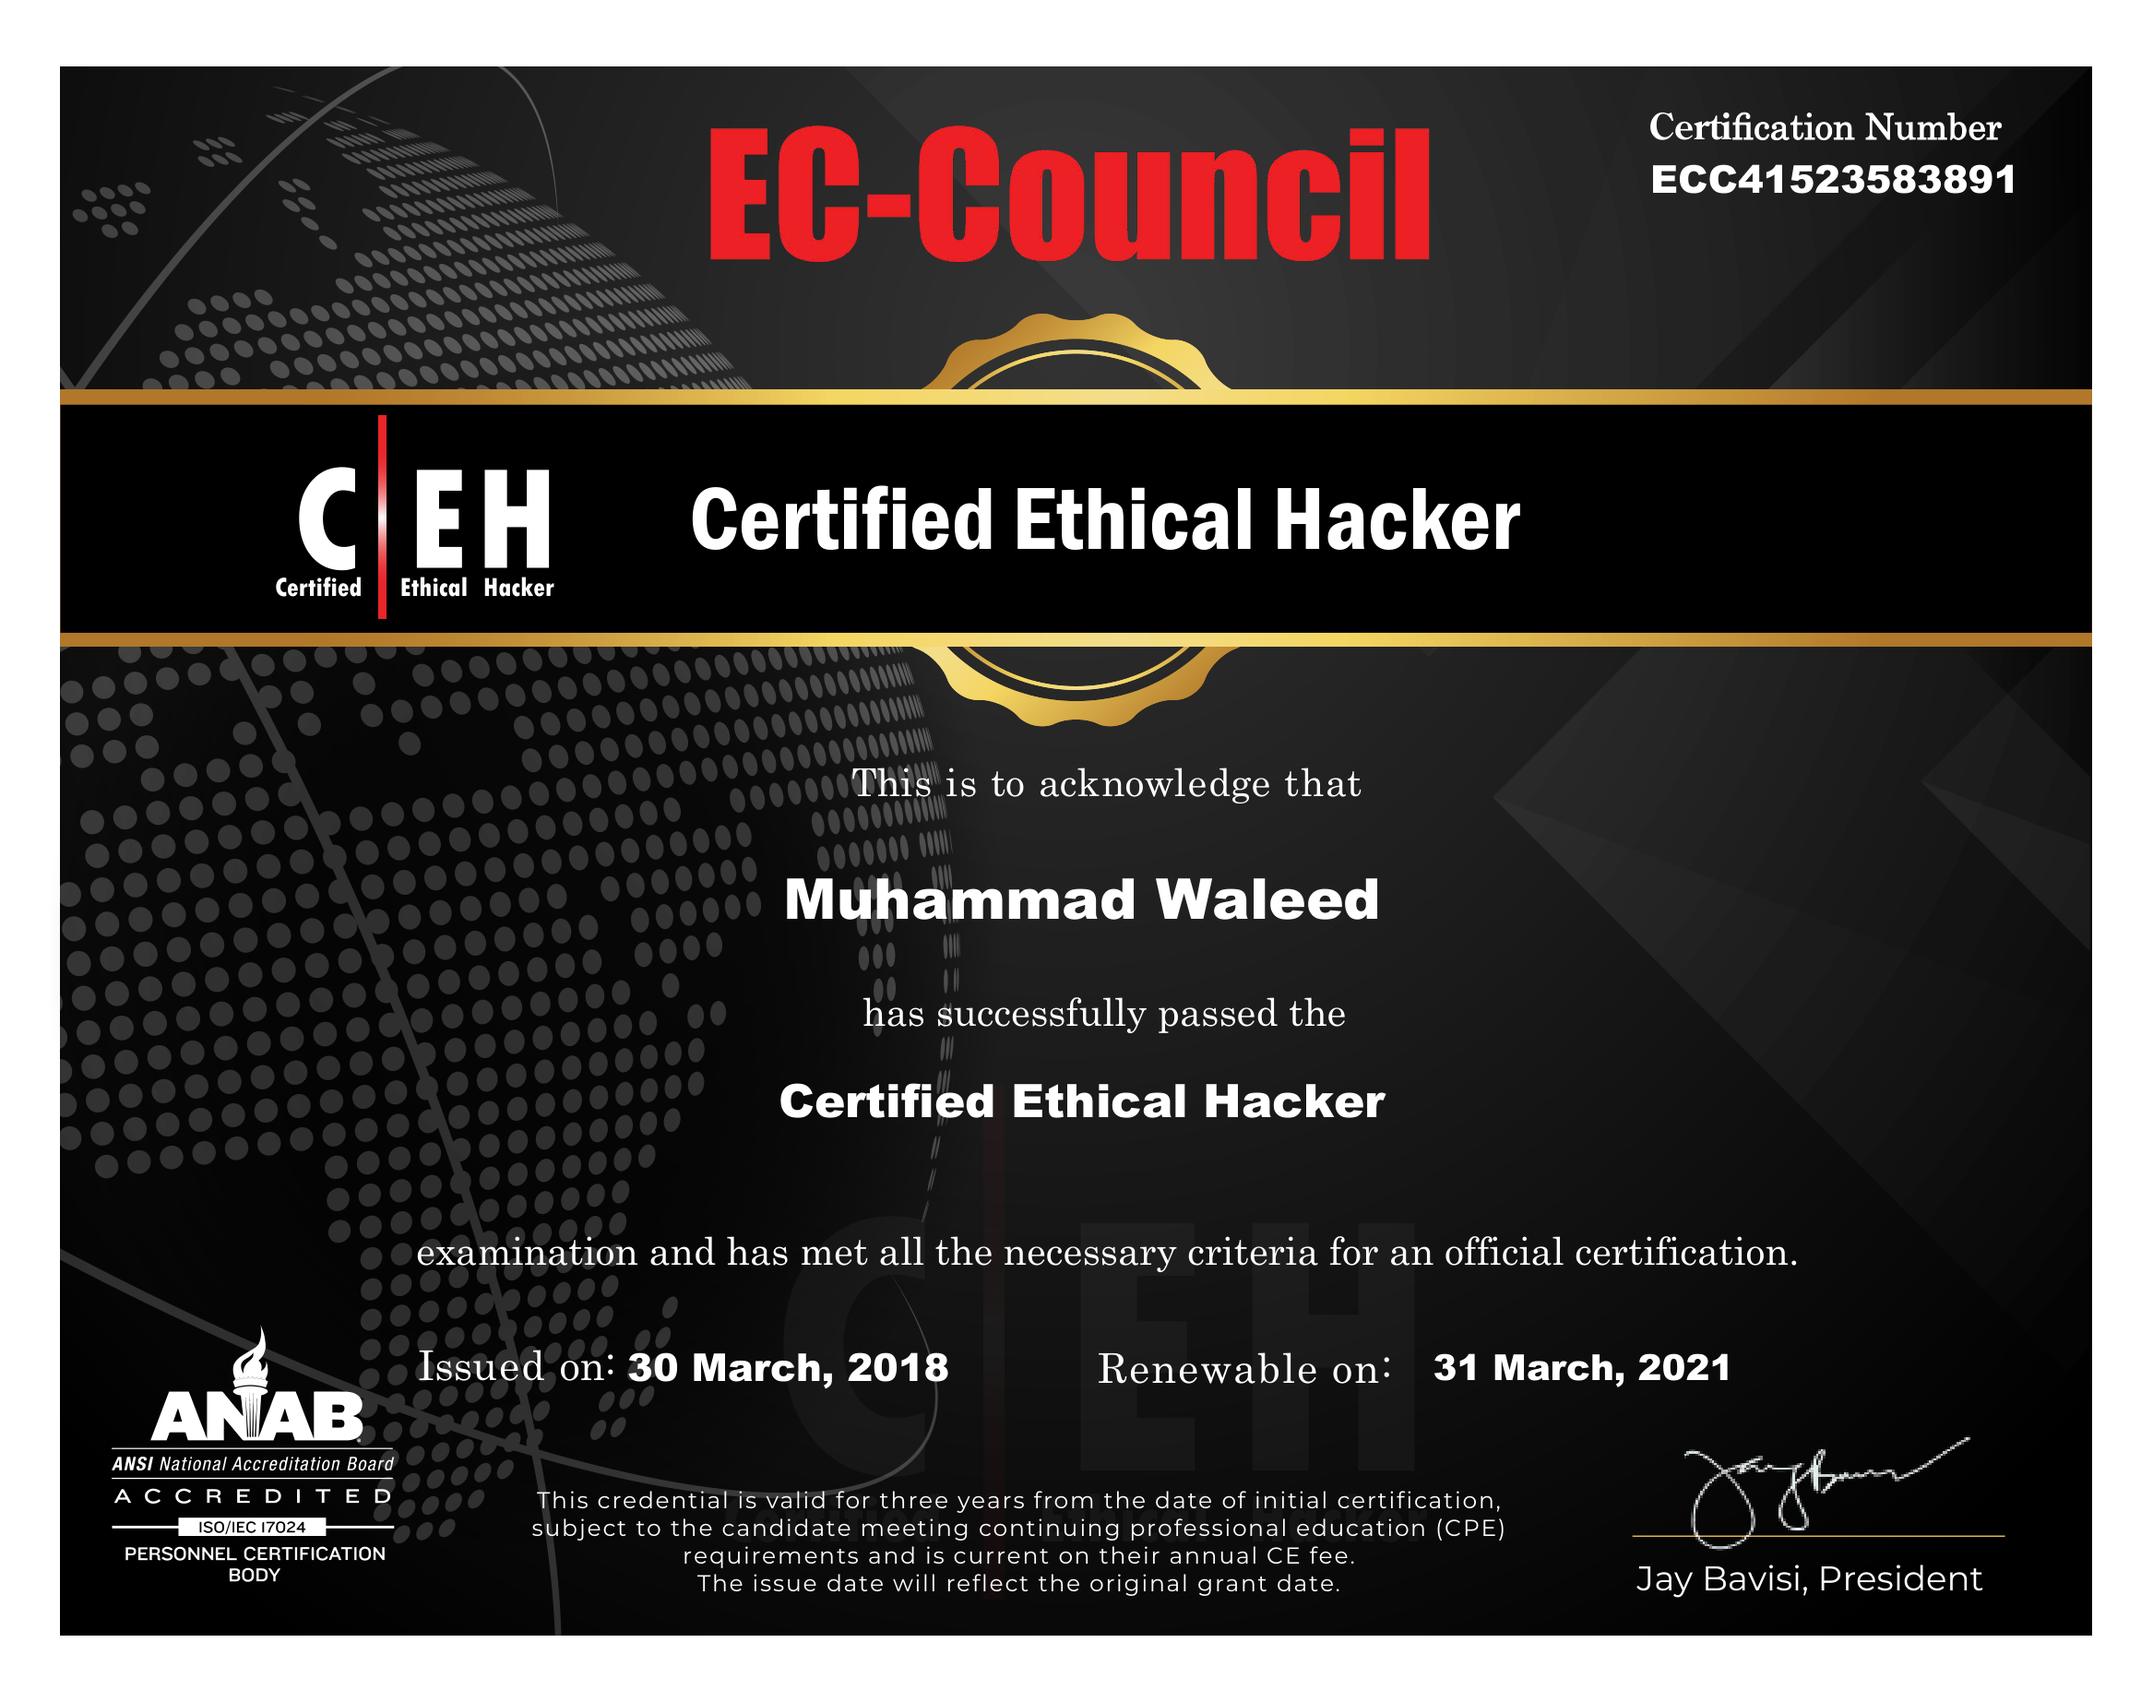
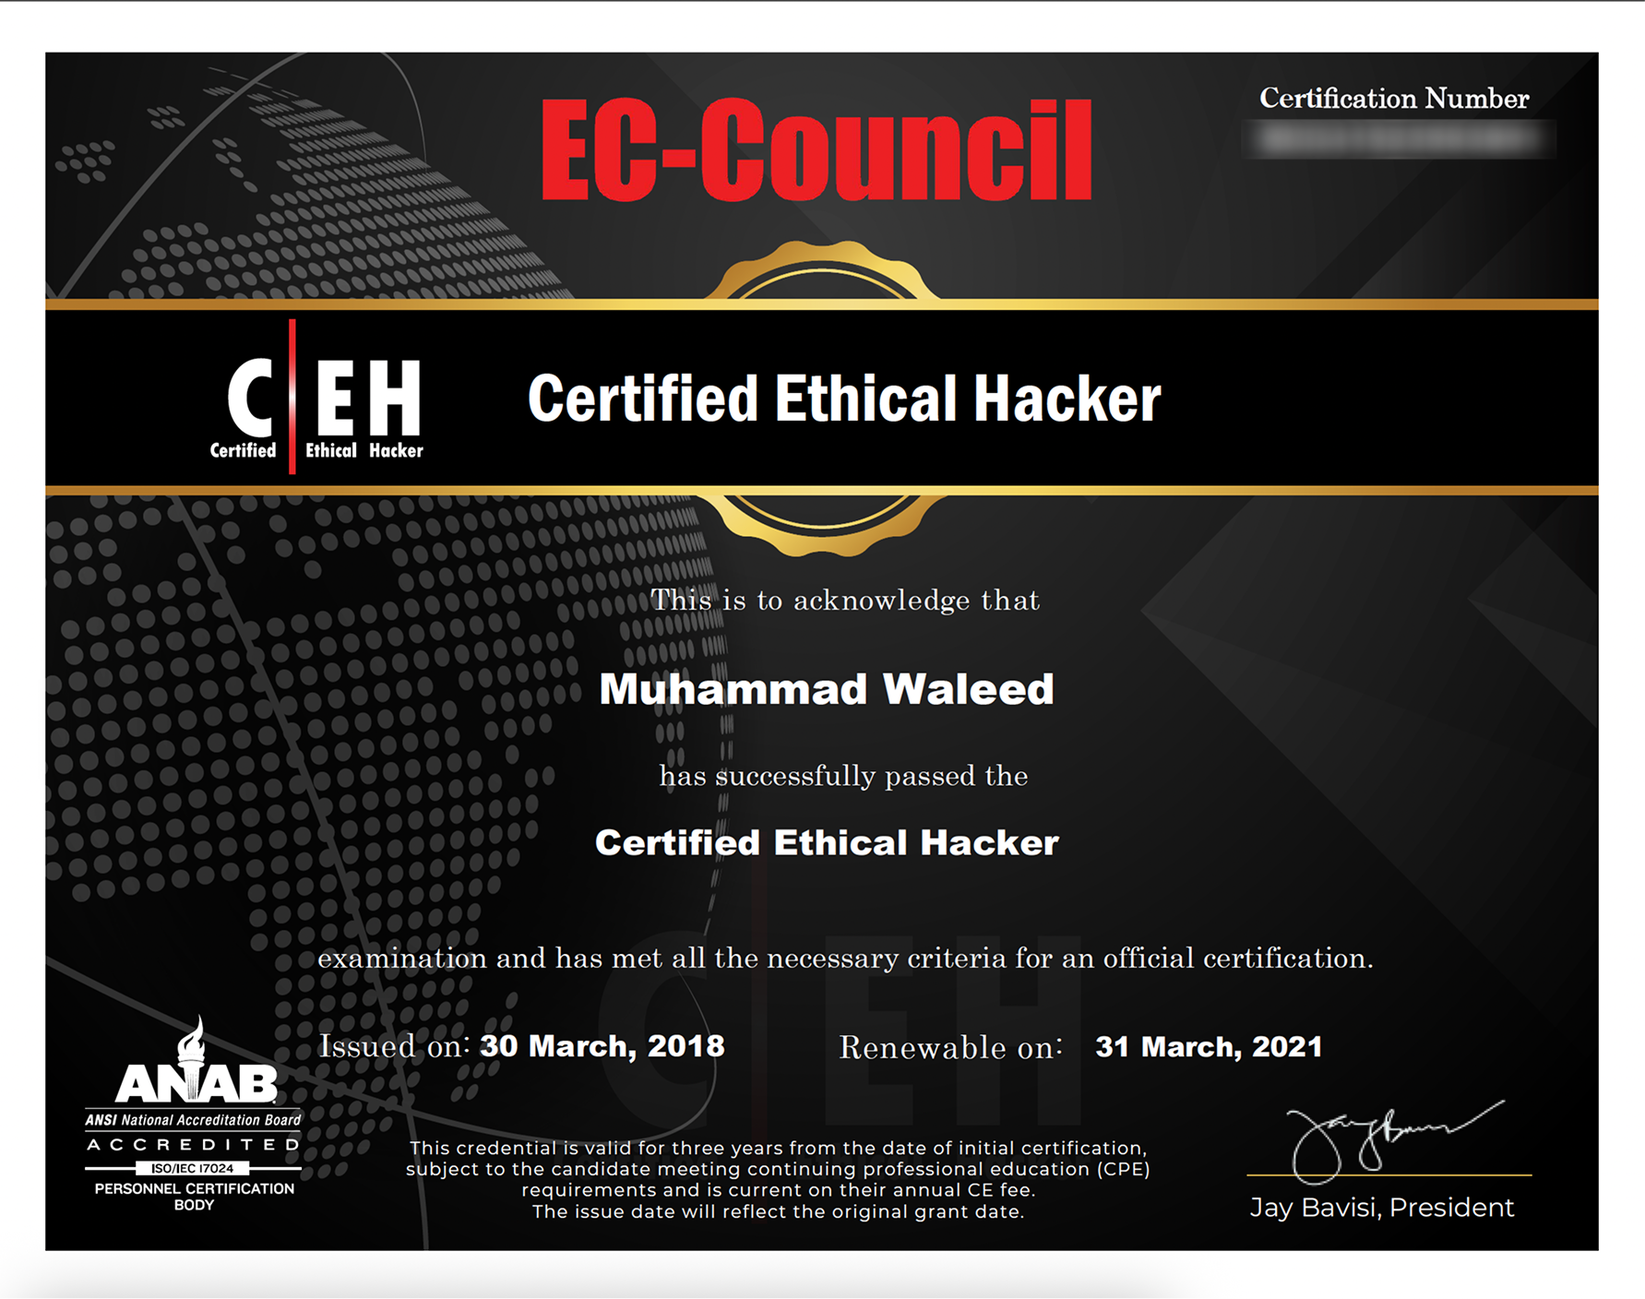
update certificate images, metadata, and company address
- Replace 7 certificate images with latest versions
- Update certification dates and details to match new certificates
- Update ISO 42001 from generic to Lead Auditor (PECB)
- Update company address to 66 Paul Street, London, EC2A 4NA
- Add streetAddress and postalCode to structured data (JsonLd)

diff --git a/src/components/sections/Certifications.tsx b/src/components/sections/Certifications.tsx
@@ -17,10 +17,10 @@ const certifications = [
     badge: "CQI | IRCA",
   },
   {
-    title: "ISO 42001 — AI Management System",
-    issuer: "Certified AI Governance Standard",
-    holder: "Pixelette Certified",
-    date: "2024",
+    title: "ISO/IEC 42001 Lead Auditor",
+    issuer: "PECB — Professional Evaluation and Certification Board",
+    holder: "Muhammad Waleed",
+    date: "October 2025",
     certNumber: "",
     image: "/images/certifications/iso-42001.png",
     badge: "ISO 42001",
@@ -30,7 +30,7 @@ const certifications = [
     issuer: "IAPP — International Association of Privacy Professionals",
     holder: "Muhammad Waleed",
     date: "May 2025",
-    certNumber: "0006503511",
+    certNumber: "",
     image: "/images/certifications/aigp-iapp.png",
     badge: "IAPP AIGP",
   },
@@ -38,7 +38,7 @@ const certifications = [
     title: "Fellow of Information Privacy (FIP)",
     issuer: "IAPP — International Association of Privacy Professionals",
     holder: "Muhammad Waleed",
-    date: "2025",
+    date: "September 2025",
     certNumber: "",
     image: "/images/certifications/fip-iapp.png",
     badge: "IAPP FIP",
@@ -47,7 +47,7 @@ const certifications = [
     title: "Certified Information Privacy Professional (CIPP/US)",
     issuer: "IAPP — International Association of Privacy Professionals",
     holder: "Muhammad Waleed",
-    date: "2025",
+    date: "August 2025",
     certNumber: "",
     image: "/images/certifications/cipp-us-iapp.png",
     badge: "IAPP CIPP/US",
@@ -56,7 +56,7 @@ const certifications = [
     title: "Certified Information Privacy Manager (CIPM)",
     issuer: "IAPP — International Association of Privacy Professionals",
     holder: "Muhammad Waleed",
-    date: "2025",
+    date: "February 2024",
     certNumber: "",
     image: "/images/certifications/cipm-iapp.png",
     badge: "IAPP CIPM",
@@ -65,8 +65,8 @@ const certifications = [
     title: "CISA — Certified Information Systems Auditor",
     issuer: "ISACA",
     holder: "Muhammad Waleed",
-    date: "2024",
-    certNumber: "24259689",
+    date: "July 2024",
+    certNumber: "",
     image: "/images/certifications/cisa.png",
     badge: "ISACA CISA",
   },
@@ -74,7 +74,7 @@ const certifications = [
     title: "CEH — Certified Ethical Hacker",
     issuer: "EC-Council",
     holder: "Muhammad Waleed",
-    date: "2024",
+    date: "March 2018",
     certNumber: "",
     image: "/images/certifications/ceh.png",
     badge: "EC-Council CEH",

diff --git a/src/lib/constants.ts b/src/lib/constants.ts
@@ -7,7 +7,7 @@ export const SITE_CONFIG = {
   email: "info@pixelettecertified.com",
   phone: "+44 20 7946 0958",
   phoneTel: "+442079460958",
-  address: "London, United Kingdom · Serving clients globally",
+  address: "66 Paul Street, London, EC2A 4NA, United Kingdom",
   regions: ["UK", "UAE", "EU", "Americas", "APAC"],
   social: {
     linkedin: "https://www.linkedin.com/company/pixelette-certified/about/?viewAsMember=true",

diff --git a/src/components/seo/JsonLd.tsx b/src/components/seo/JsonLd.tsx
@@ -24,7 +24,9 @@ export function OrganizationSchema() {
         email: "info@pixelettecertified.com",
         address: {
           "@type": "PostalAddress",
+          streetAddress: "66 Paul Street",
           addressLocality: "London",
+          postalCode: "EC2A 4NA",
           addressRegion: "England",
           addressCountry: "GB",
         },
